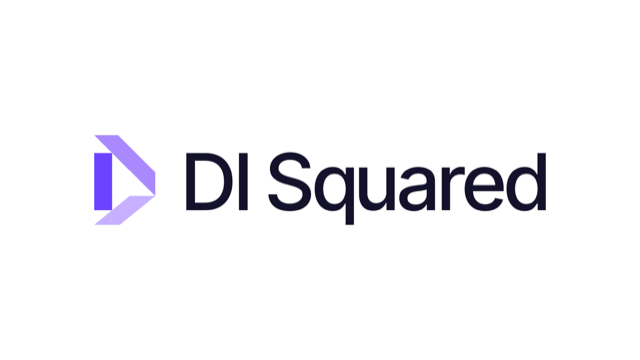
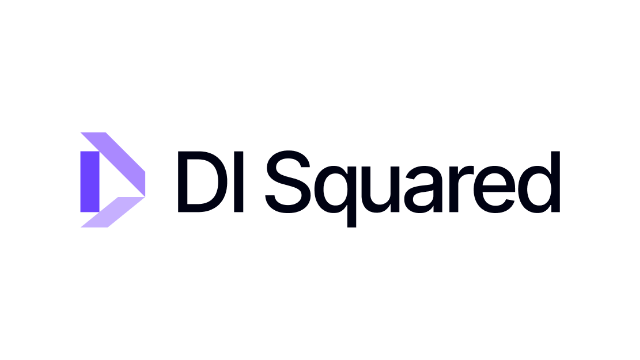
assets

Changed region(s): [[0.2812, 0.3972, 0.875, 0.6417], [0.125, 0.3667, 0.25, 0.6417]]

diff --git a/website/.vitepress/theme/brand.css b/website/.vitepress/theme/brand.css
@@ -55,9 +55,14 @@
   height: auto;
 }
 
-/* The logo has a dark wordmark; show it in white on dark backgrounds. */
-.dark .disqr-by img {
-  filter: brightness(0) invert(1);
+/* One logo per theme: dark wordmark on light, white wordmark on dark. */
+.disqr-by .logo-dark,
+.dark .disqr-by .logo-light {
+  display: none;
+}
+
+.dark .disqr-by .logo-dark {
+  display: inline-block;
 }
 
 .disqr-by p {

diff --git a/website/index.md b/website/index.md
@@ -30,7 +30,8 @@ features:
 
 <div class="disqr-by">
   <a href="https://disqr.com" aria-label="DI Squared">
-    <img src="/disqr-logo.png" alt="DI Squared" width="220">
+    <img class="logo-light" src="/disqr-logo-light.png" alt="DI Squared" width="220">
+    <img class="logo-dark" src="/disqr-logo-dark.png" alt="DI Squared" width="220">
   </a>
   <p>Toast Notification is built and maintained by <a href="https://disqr.com">DI Squared</a> and released for free under the MIT License.</p>
 </div>
